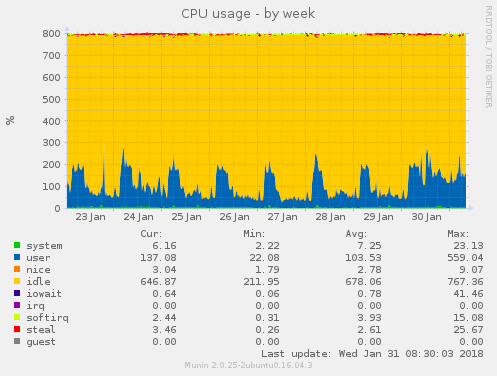
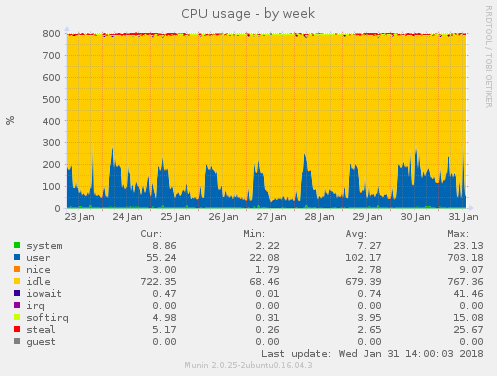
Update notes for 2018-01-31

diff --git a/public/2018-01/index.html b/public/2018-01/index.html
@@ -92,7 +92,7 @@ Danny wrote to ask for help renewing the wildcard ilri.org certificate and I adv
 
 <meta property="article:published_time" content="2018-01-02T08:35:54-08:00"/>
 
-<meta property="article:modified_time" content="2018-01-29T12:25:30&#43;02:00"/>
+<meta property="article:modified_time" content="2018-01-31T12:01:34&#43;02:00"/>
 
 
 
@@ -194,9 +194,9 @@ Danny wrote to ask for help renewing the wildcard ilri.org certificate and I adv
   "@type": "BlogPosting",
   "headline": "January, 2018",
   "url": "https://alanorth.github.io/cgspace-notes/2018-01/",
-  "wordCount": "7885",
+  "wordCount": "7940",
   "datePublished": "2018-01-02T08:35:54-08:00",
-  "dateModified": "2018-01-29T12:25:30&#43;02:00",
+  "dateModified": "2018-01-31T12:01:34&#43;02:00",
   "author": {
     "@type": "Person",
     "name": "Alan Orth"
@@ -1761,14 +1761,25 @@ javax.ws.rs.WebApplicationException
 <li>We need to start graphing the Tomcat sessions as well, though that requires JMX</li>
 <li>Also, I wonder if I could disable the nightly Atmire thing</li>
 <li>God, I don&rsquo;t know where this load is coming from</li>
-<li>Since I bumped up the Tomcat threads from 200 to 400 the load on the server has been sustained at about 200%:</li>
+<li>Since I bumped up the Tomcat threads from 200 to 400 the load on the server has been sustained at about 200% for almost a whole day:</li>
 </ul>
 
 <p><img src="/cgspace-notes/2018/01/cpu-week.png" alt="CPU usage week" /></p>
 
 <ul>
 <li>I should make separate database pools for the web applications and the API applications like REST and OAI</li>
+<li>Ok, so this is interesting: I figured out how to get the MBean path to query Tomcat&rsquo;s activeSessions from JMX (using <code>munin-plugins-java</code>):</li>
 </ul>
+
+<pre><code># port=5400 ip=&quot;127.0.0.1&quot; /usr/bin/java -cp /usr/share/munin/munin-jmx-plugins.jar org.munin.plugin.jmx.Beans Catalina:type=Manager,context=/,host=localhost activeSessions
+Catalina:type=Manager,context=/,host=localhost  activeSessions  8
+</code></pre>
+
+<ul>
+<li>If you connect to Tomcat in <code>jvisualvm</code> it&rsquo;s pretty obvious when you hover over the elements</li>
+</ul>
+
+<p><img src="/cgspace-notes/2018/01/jvisualvm-mbeans-path.png" alt="MBeans in JVisualVM" /></p>
 
   
 

diff --git a/content/post/2018-01.md b/content/post/2018-01.md
@@ -1355,8 +1355,18 @@ javax.ws.rs.WebApplicationException
 - We need to start graphing the Tomcat sessions as well, though that requires JMX
 - Also, I wonder if I could disable the nightly Atmire thing
 - God, I don't know where this load is coming from
-- Since I bumped up the Tomcat threads from 200 to 400 the load on the server has been sustained at about 200%:
+- Since I bumped up the Tomcat threads from 200 to 400 the load on the server has been sustained at about 200% for almost a whole day:
 
 ![CPU usage week](/cgspace-notes/2018/01/cpu-week.png)
 
 - I should make separate database pools for the web applications and the API applications like REST and OAI
+- Ok, so this is interesting: I figured out how to get the MBean path to query Tomcat's activeSessions from JMX (using `munin-plugins-java`):
+
+```
+# port=5400 ip="127.0.0.1" /usr/bin/java -cp /usr/share/munin/munin-jmx-plugins.jar org.munin.plugin.jmx.Beans Catalina:type=Manager,context=/,host=localhost activeSessions
+Catalina:type=Manager,context=/,host=localhost  activeSessions  8
+```
+
+- If you connect to Tomcat in `jvisualvm` it's pretty obvious when you hover over the elements
+
+![MBeans in JVisualVM](/cgspace-notes/2018/01/jvisualvm-mbeans-path.png)
